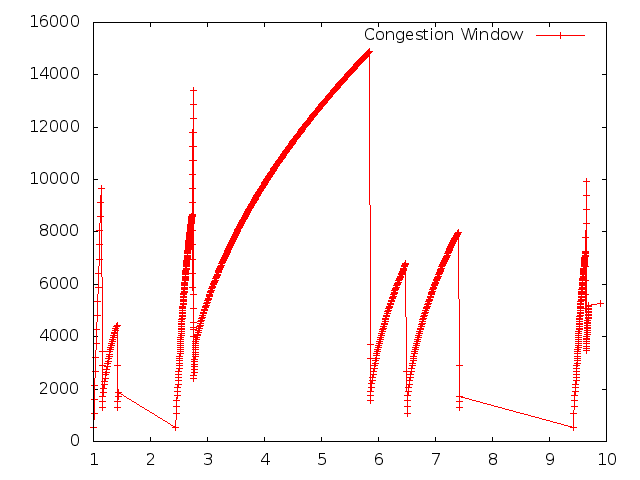
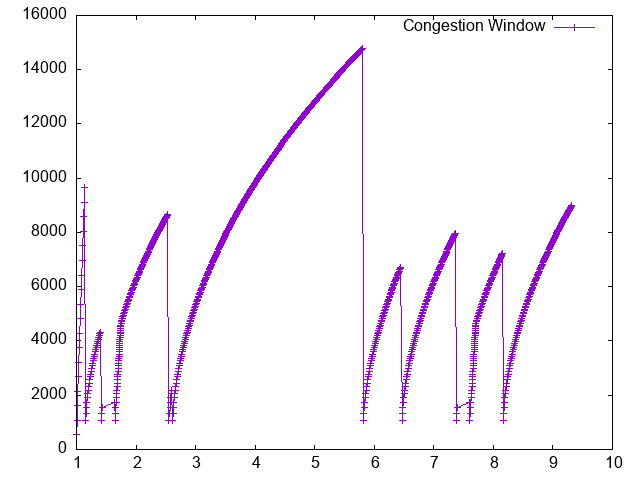
examples: Update fifth.cc and the cwnd plot in the tutorial

diff --git a/examples/tutorial/fifth.cc b/examples/tutorial/fifth.cc
@@ -79,6 +79,16 @@ main (int argc, char *argv[])
 {
   CommandLine cmd (__FILE__);
   cmd.Parse (argc, argv);
+
+  // In the following three lines, TCP NewReno is used as the congestion
+  // control algorithm, the initial congestion window of a TCP connection is
+  // set to 1 packet, and the classic fast recovery algorithm is used. Note
+  // that this configuration is used only to demonstrate how TCP parameters
+  // can be configured in ns-3. Otherwise, it is recommended to use the default
+  // settings of TCP in ns-3.
+  Config::SetDefault ("ns3::TcpL4Protocol::SocketType", StringValue ("ns3::TcpNewReno"));
+  Config::SetDefault ("ns3::TcpSocket::InitialCwnd", UintegerValue (1));
+  Config::SetDefault ("ns3::TcpL4Protocol::RecoveryType", TypeIdValue (TypeId::LookupByName ("ns3::TcpClassicRecovery")));
   
   NodeContainer nodes;
   nodes.Create (2);
